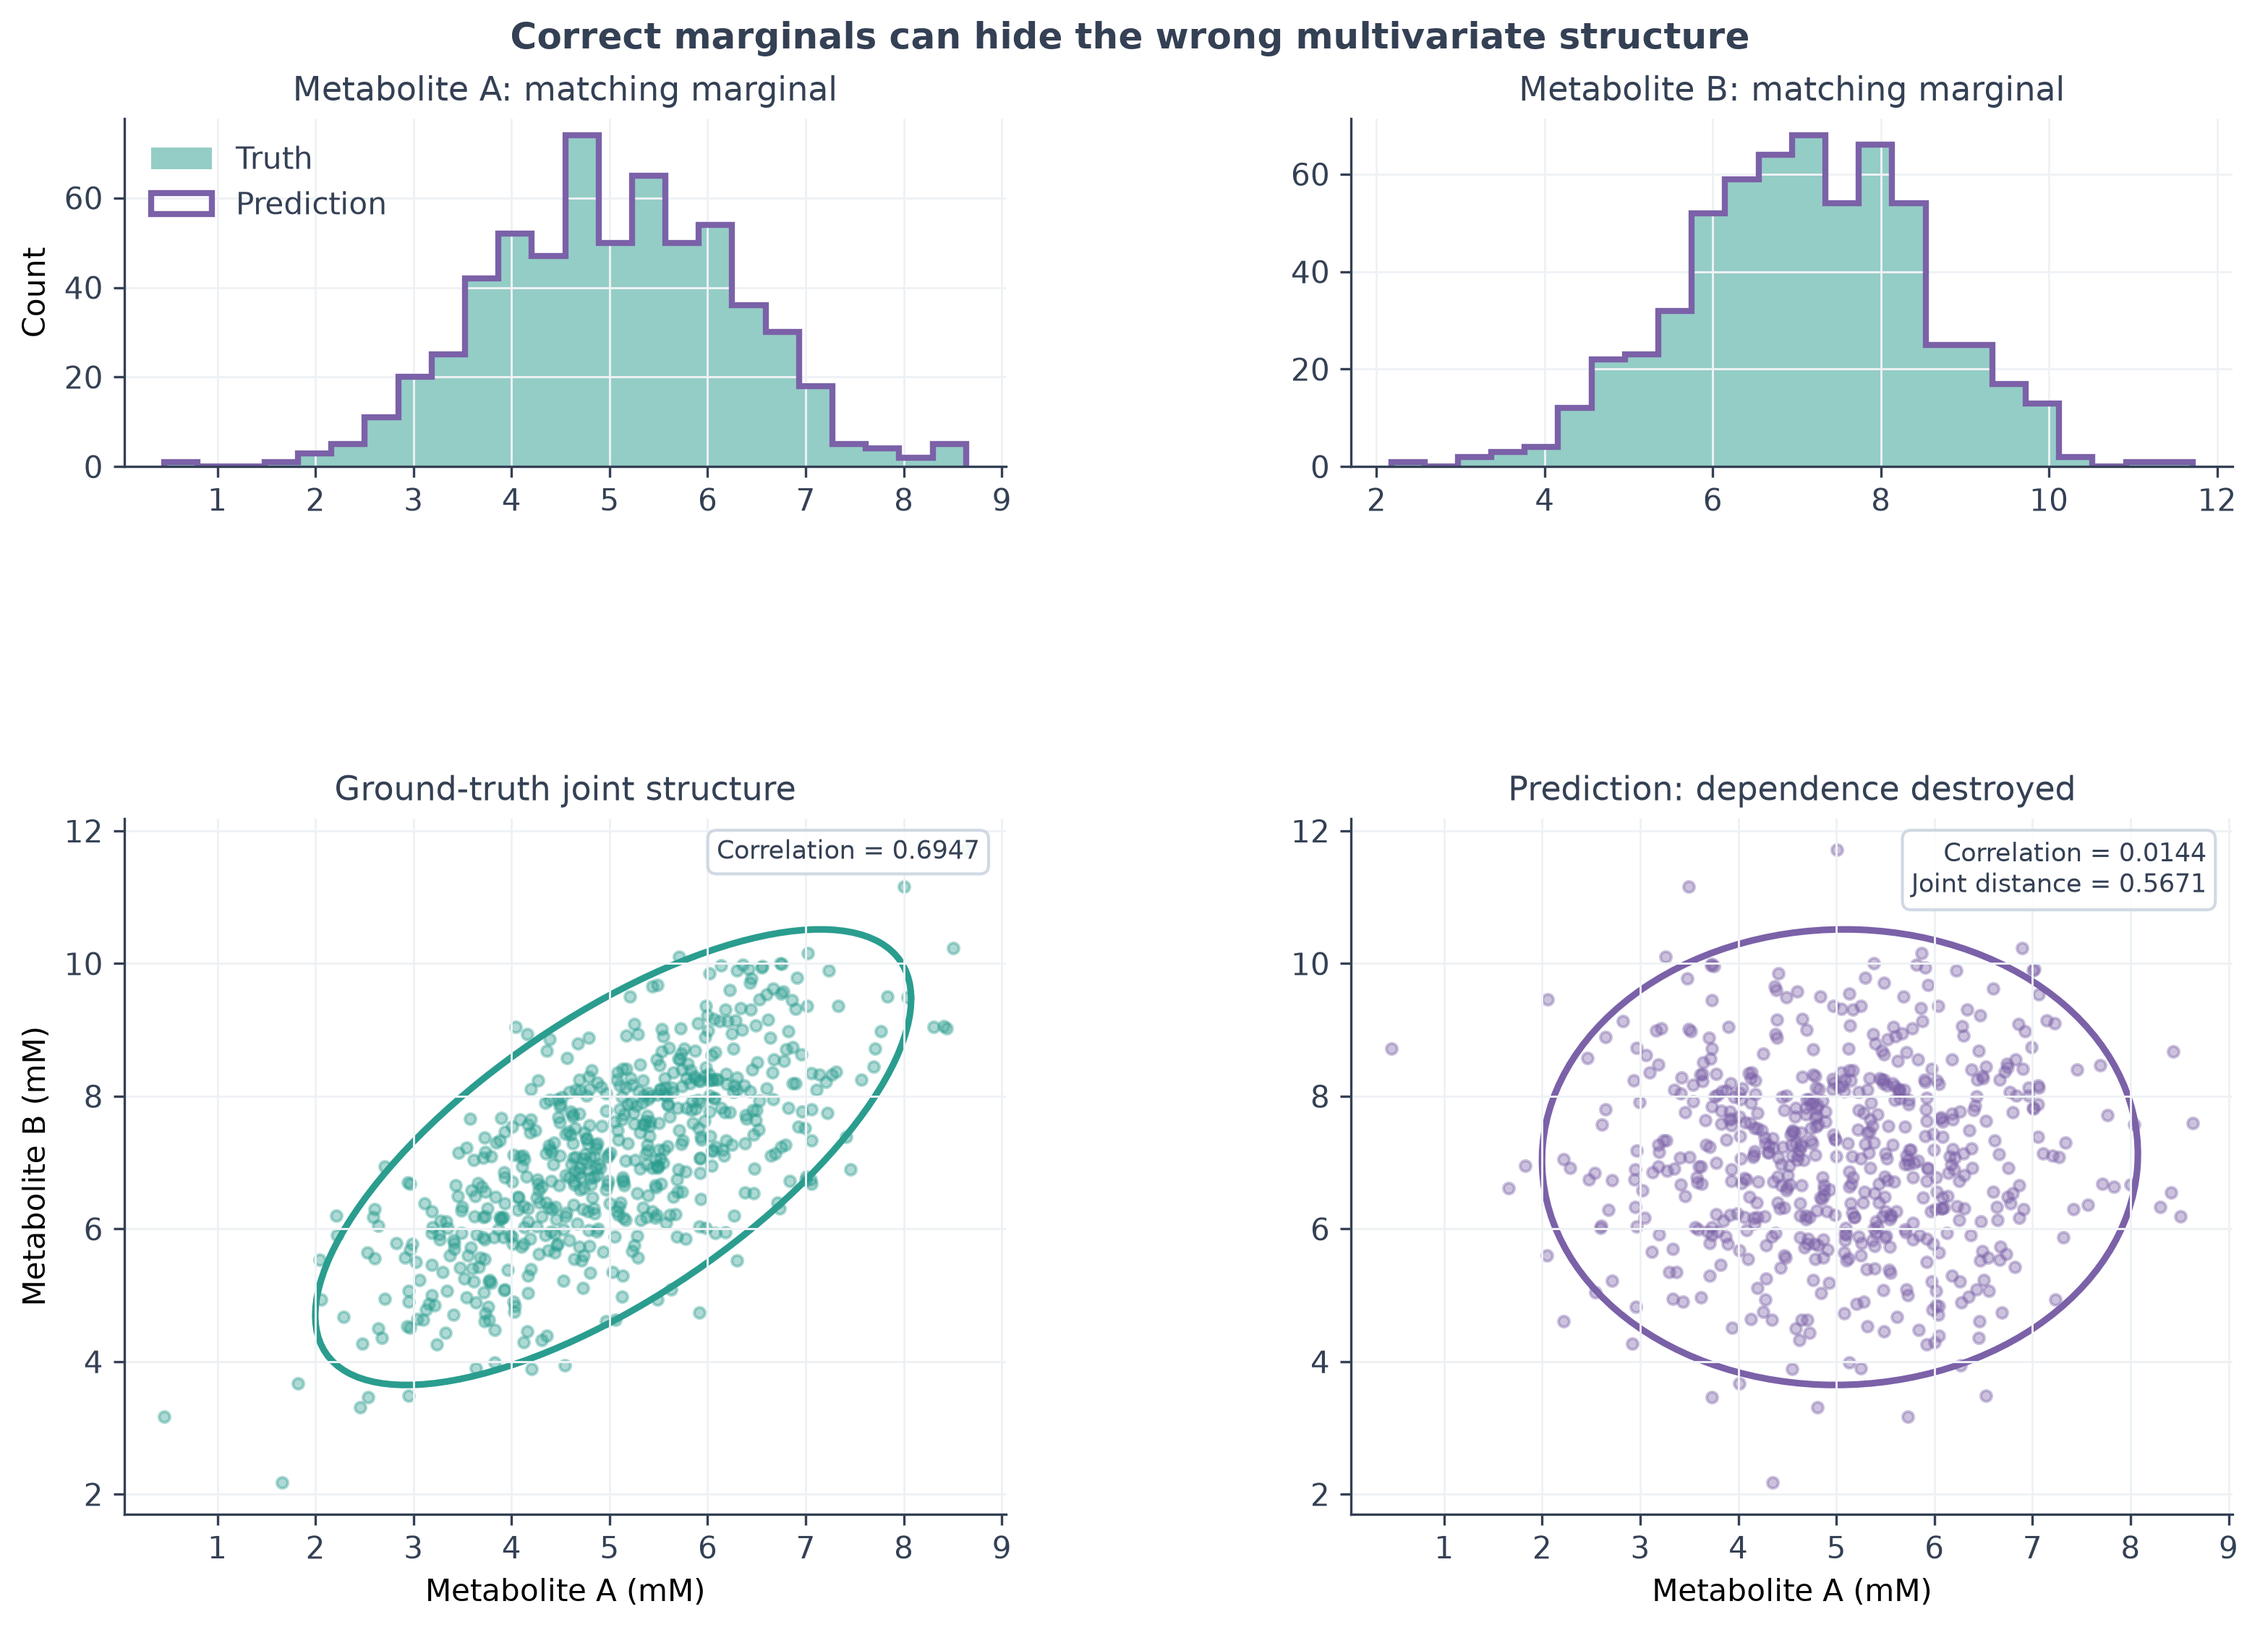
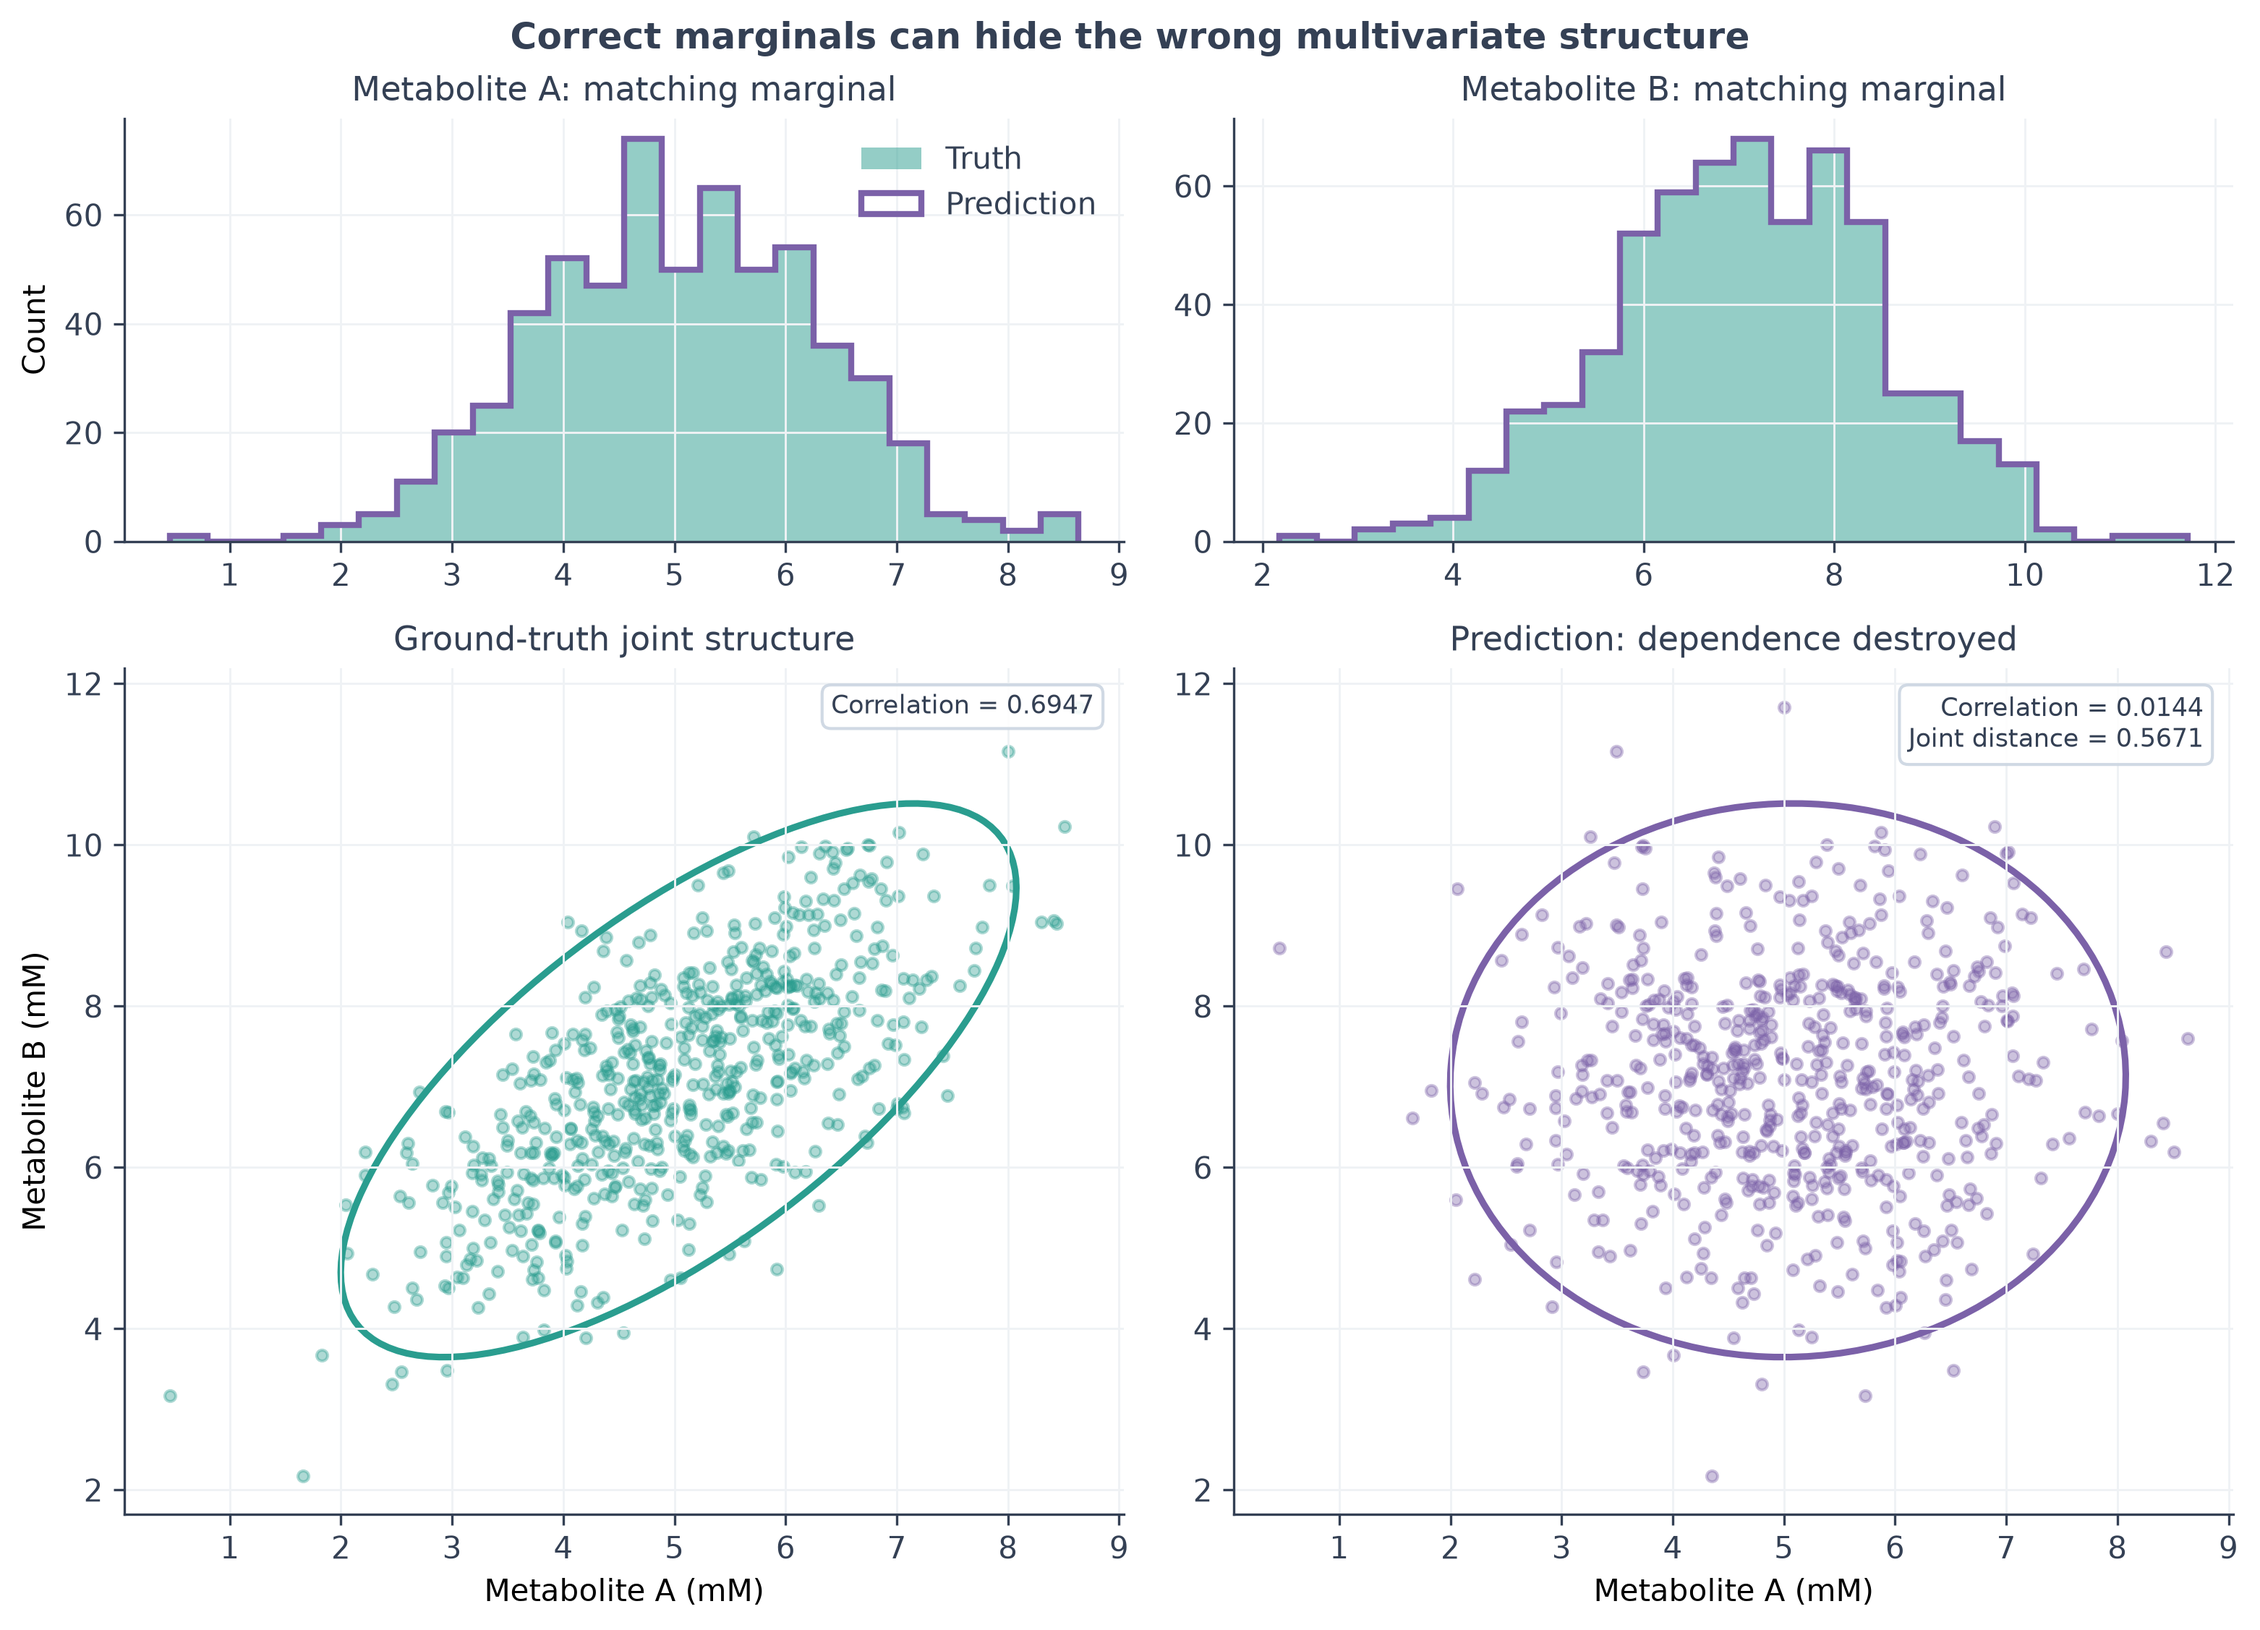
Update

diff --git a/examples/mrs_validation_toy_figures.py b/examples/mrs_validation_toy_figures.py
@@ -85,7 +85,7 @@ by the ``generate`` command. Empty cells mean "not yet analyzed".
 Relevant metrics (state them; calculate them elsewhere)
 -------------------------------------------------------
 1. Association versus agreement: Pearson r, R-squared under an explicitly
-   stated regression, slope, intercept, mean error/bias, MAE or RMSE, Lin's CCC.
+   stated regression, slope, intercept, mean error/bias, MAE or RMSE, Lin's $\rho_C$.
 2. Nominal versus effective N: ICC, design effect, effective sample size, naive
    and cluster-aware or subject-bootstrap confidence intervals; optionally a
    mixed-effects variance decomposition.
@@ -96,13 +96,13 @@ Relevant metrics (state them; calculate them elsewhere)
    cell-wise success probability, one-sided confidence lower bound, sample count,
    and an evidence status that distinguishes validated, unacceptable, and
    insufficiently sampled cells.
-5. Method comparison: Pearson r and Lin's CCC; Bland--Altman bias, limits of
+5. Method comparison: Pearson r and Lin's $\rho_C$; Bland--Altman bias, limits of
    agreement and their confidence bands; Passing--Bablok slope/intercept plus a
    linearity test; Deming slope/intercept with justified error-variance ratio;
    and pre-specified equivalence analysis (e.g. the manuscript's three-stage
    accuracy/precision/agreement protocol or another justified TOST design).
 6. Marginal equality versus pairing: a marginal distribution distance/test plus
-   paired MAE/RMSE, Pearson r, and Lin's CCC.
+   paired MAE/RMSE, Pearson r, and Lin's $\rho_C$.
 7. Bias versus variance: empirical bias, variance, MSE, RMSE, and the externally
    verified bias-squared-plus-variance decomposition.
 8. Multivariate structure: per-variable marginal summaries/distances, covariance
@@ -287,24 +287,32 @@ def metric_text(row: Mapping[str, str] | None, fields: Sequence[tuple[str, str]]
     """Format supplied values only; no metric is calculated here."""
     if not row:
         return ""
-    lines: list[str] = []
+    entries: list[tuple[str, str]] = []
     for field, label in fields:
         value = row.get(field, "")
         if value not in (None, ""):
-            lines.append(f"{label} = {value}")
-    return "\n".join(lines)
+            entries.append((label, value))
+    if not entries:
+        return ""
+    # add_metric_box right-justifies each line independently (ha="right"),
+    # so the "=" only lands in the same place on every line when the text
+    # following it is the same width on every line -- the label width is
+    # irrelevant under right justification. Padding values to a common
+    # width (rather than labels) is what actually keeps the "=" aligned.
+    value_width = max(len(value) for _, value in entries)
+    return "\n".join(f"{label} = {value.rjust(value_width)}" for label, value in entries)
 
 
-def add_metric_box(ax: plt.Axes, text: str) -> None:
+def add_metric_box(ax: plt.Axes, text: str, x: float = 0.97, y: float = 0.97, ha: str="right", va: str="top") -> None:
     if not text:
         return
     ax.text(
-        0.97,
-        0.97,
+        x,
+        y,
         text,
         transform=ax.transAxes,
-        ha="right",
-        va="top",
+        ha=ha,
+        va=va,
         fontsize=8.5,
         bbox={"boxstyle": "round,pad=0.35", "facecolor": "white", "alpha": 0.9,
               "edgecolor": "#CBD5E1"},
@@ -632,7 +640,8 @@ def plot_figure01(data_dir: Path, analysis_dir: Path, output: Path, settings: Se
         add_metric_box(
             ax,
             metric_text(row, (("pearson_r", "r"), ("rmse_mM", "RMSE"),
-                              ("lin_ccc", "CCC"))),
+                              ("lin_ccc", r'$\rho_C$'))),#"CCC"))),
+                        x=0.97, y=0.2, ha="right", va="top",
         )
         ax.set_title(scenario, color=color, fontweight="bold")
         ax.set_xlim(low, high)
@@ -809,7 +818,7 @@ def plot_figure05(data_dir: Path, analysis_dir: Path, output: Path, settings: Se
     ax.plot([low, high], [pb_i + pb_s * low, pb_i + pb_s * high], color=PURPLE,
             linewidth=2, label="Supplied Passing–Bablok")
     ax.set(xlabel="Reference (mM)", ylabel="Candidate (mM)", title="A. Association")
-    add_metric_box(ax, metric_text(m, (("pearson_r", "r"), ("lin_ccc", "CCC"))))
+    add_metric_box(ax, metric_text(m, (("pearson_r", "r"), ("lin_ccc", r'$\rho_C$'))))
     ax.legend(frameon=False, fontsize=8)
     ax = axes[0, 1]
     ax.scatter(pair_mean, difference, s=18, color=ORANGE, alpha=0.65)
@@ -863,7 +872,7 @@ def plot_figure06(data_dir: Path, analysis_dir: Path, output: Path, settings: Se
     prediction = np.array([as_float(r["prediction_mM"], field="prediction_mM") for r in rows])
     limits = (math.floor(min(truth.min(), prediction.min())), math.ceil(max(truth.max(), prediction.max())))
     bins = np.linspace(limits[0], limits[1], 20)
-    fig, axes = plt.subplots(1, 2, figsize=(9.5, 3.9))
+    fig, axes = plt.subplots(1, 2, figsize=(9.5, 3.9), constrained_layout=True)
     axes[0].hist(truth, bins=bins, color=TEAL, alpha=0.52, label="Ground truth")
     axes[0].hist(prediction, bins=bins, histtype="step", color=PURPLE, linewidth=2,
                  label="Permuted predictions")
@@ -878,12 +887,11 @@ def plot_figure06(data_dir: Path, analysis_dir: Path, output: Path, settings: Se
     add_metric_box(
         axes[1],
         metric_text(metric, (("pearson_r", "r"), ("rmse_mM", "RMSE"),
-                             ("lin_ccc", "CCC"))),
+                             ("lin_ccc", r'$\rho_C$'))),
     )
     for ax in axes:
         ax.grid(color=LIGHT_GREY, linewidth=0.7)
     fig.suptitle("Matching distributions do not imply correct individual predictions", fontweight="bold")
-    fig.tight_layout()
     save_figure(fig, output, settings.dpi)
 
 
@@ -945,7 +953,8 @@ def plot_figure08(data_dir: Path, analysis_dir: Path, output: Path, settings: Se
     pa = np.array([as_float(r["prediction_metabolite_a_mM"], field="prediction_metabolite_a_mM") for r in rows])
     pb = np.array([as_float(r["prediction_metabolite_b_mM"], field="prediction_metabolite_b_mM") for r in rows])
     fig = plt.figure(figsize=(10.3, 7.4), constrained_layout=True)
-    grid = fig.add_gridspec(2, 2, height_ratios=(1.0, 2.0), hspace=0.32, wspace=0.25)
+    fig.get_layout_engine().set(hspace=0.04, wspace=0.04)
+    grid = fig.add_gridspec(2, 2, height_ratios=(1.0, 2.0))
     ax_a = fig.add_subplot(grid[0, 0])
     ax_b = fig.add_subplot(grid[0, 1])
     ax_truth = fig.add_subplot(grid[1, 0])
